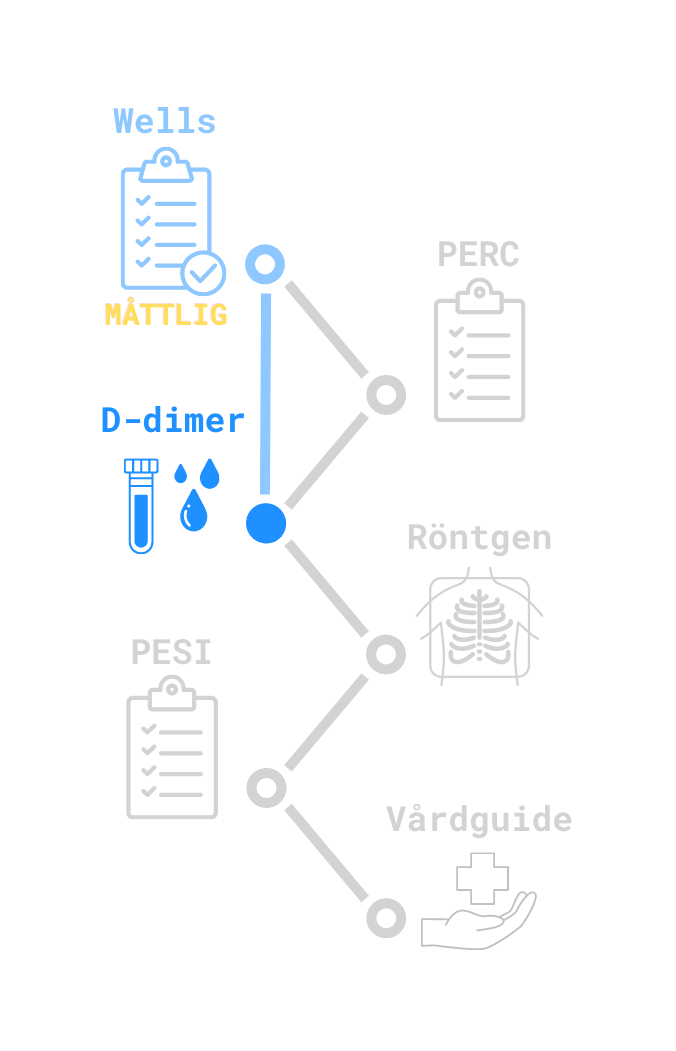
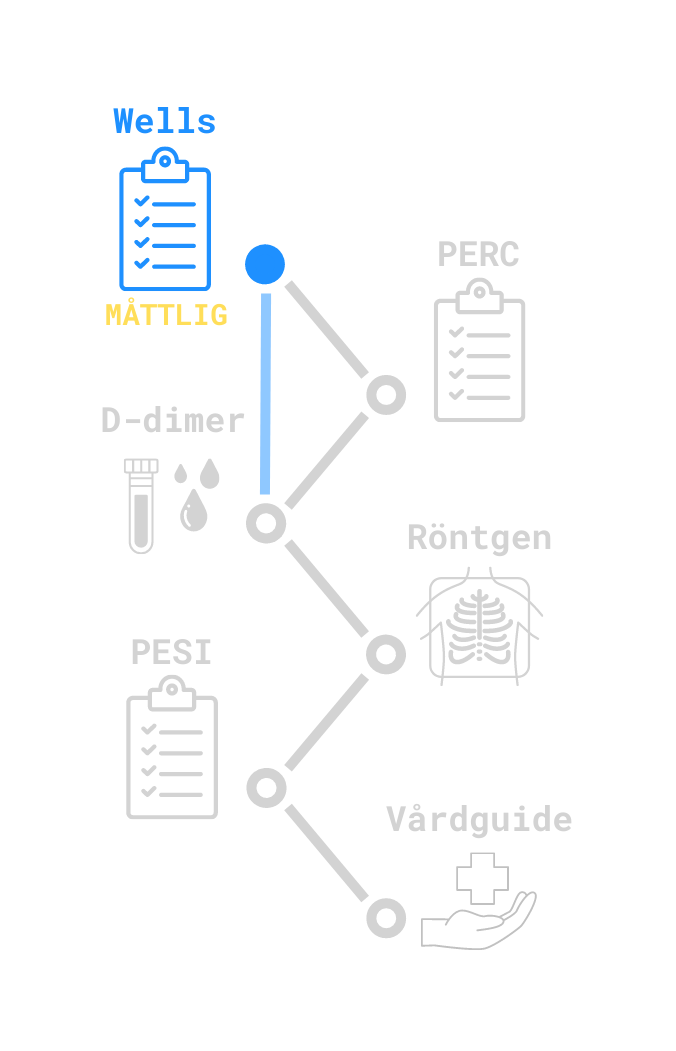
.

Changed region(s): [[0.1553, 0.0913, 0.4349, 0.3045], [0.1553, 0.3654, 0.3728, 0.548], [0.3417, 0.4567, 0.4349, 0.5176]]

diff --git a/functions/f.py b/functions/f.py
@@ -167,6 +167,8 @@ def display_flow_v2():
         img_path = "måttlig/måttlig"
         if st.session_state["Ddimer_status"] == "positive":
             img_path += "_positive"
+        elif "D-dimer_påbörjad" in st.session_state:
+            img_path += "_unknown"
     elif st.session_state["total_score_pe"] > 6:
         img_path = "hög/hög"
     image = Image.open(f"img/flow/{img_path}.png")

diff --git a/pages/02_D-dimer.py b/pages/02_D-dimer.py
@@ -13,6 +13,8 @@ st.session_state.update(st.session_state)
 
 ########################### Initialize Variables ##############################
 
+st.session_state["D-dimer_påbörjad"] = True
+
 if "beslutsgräns" not in st.session_state:
     st.session_state["beslutsgräns"] = 50
 
